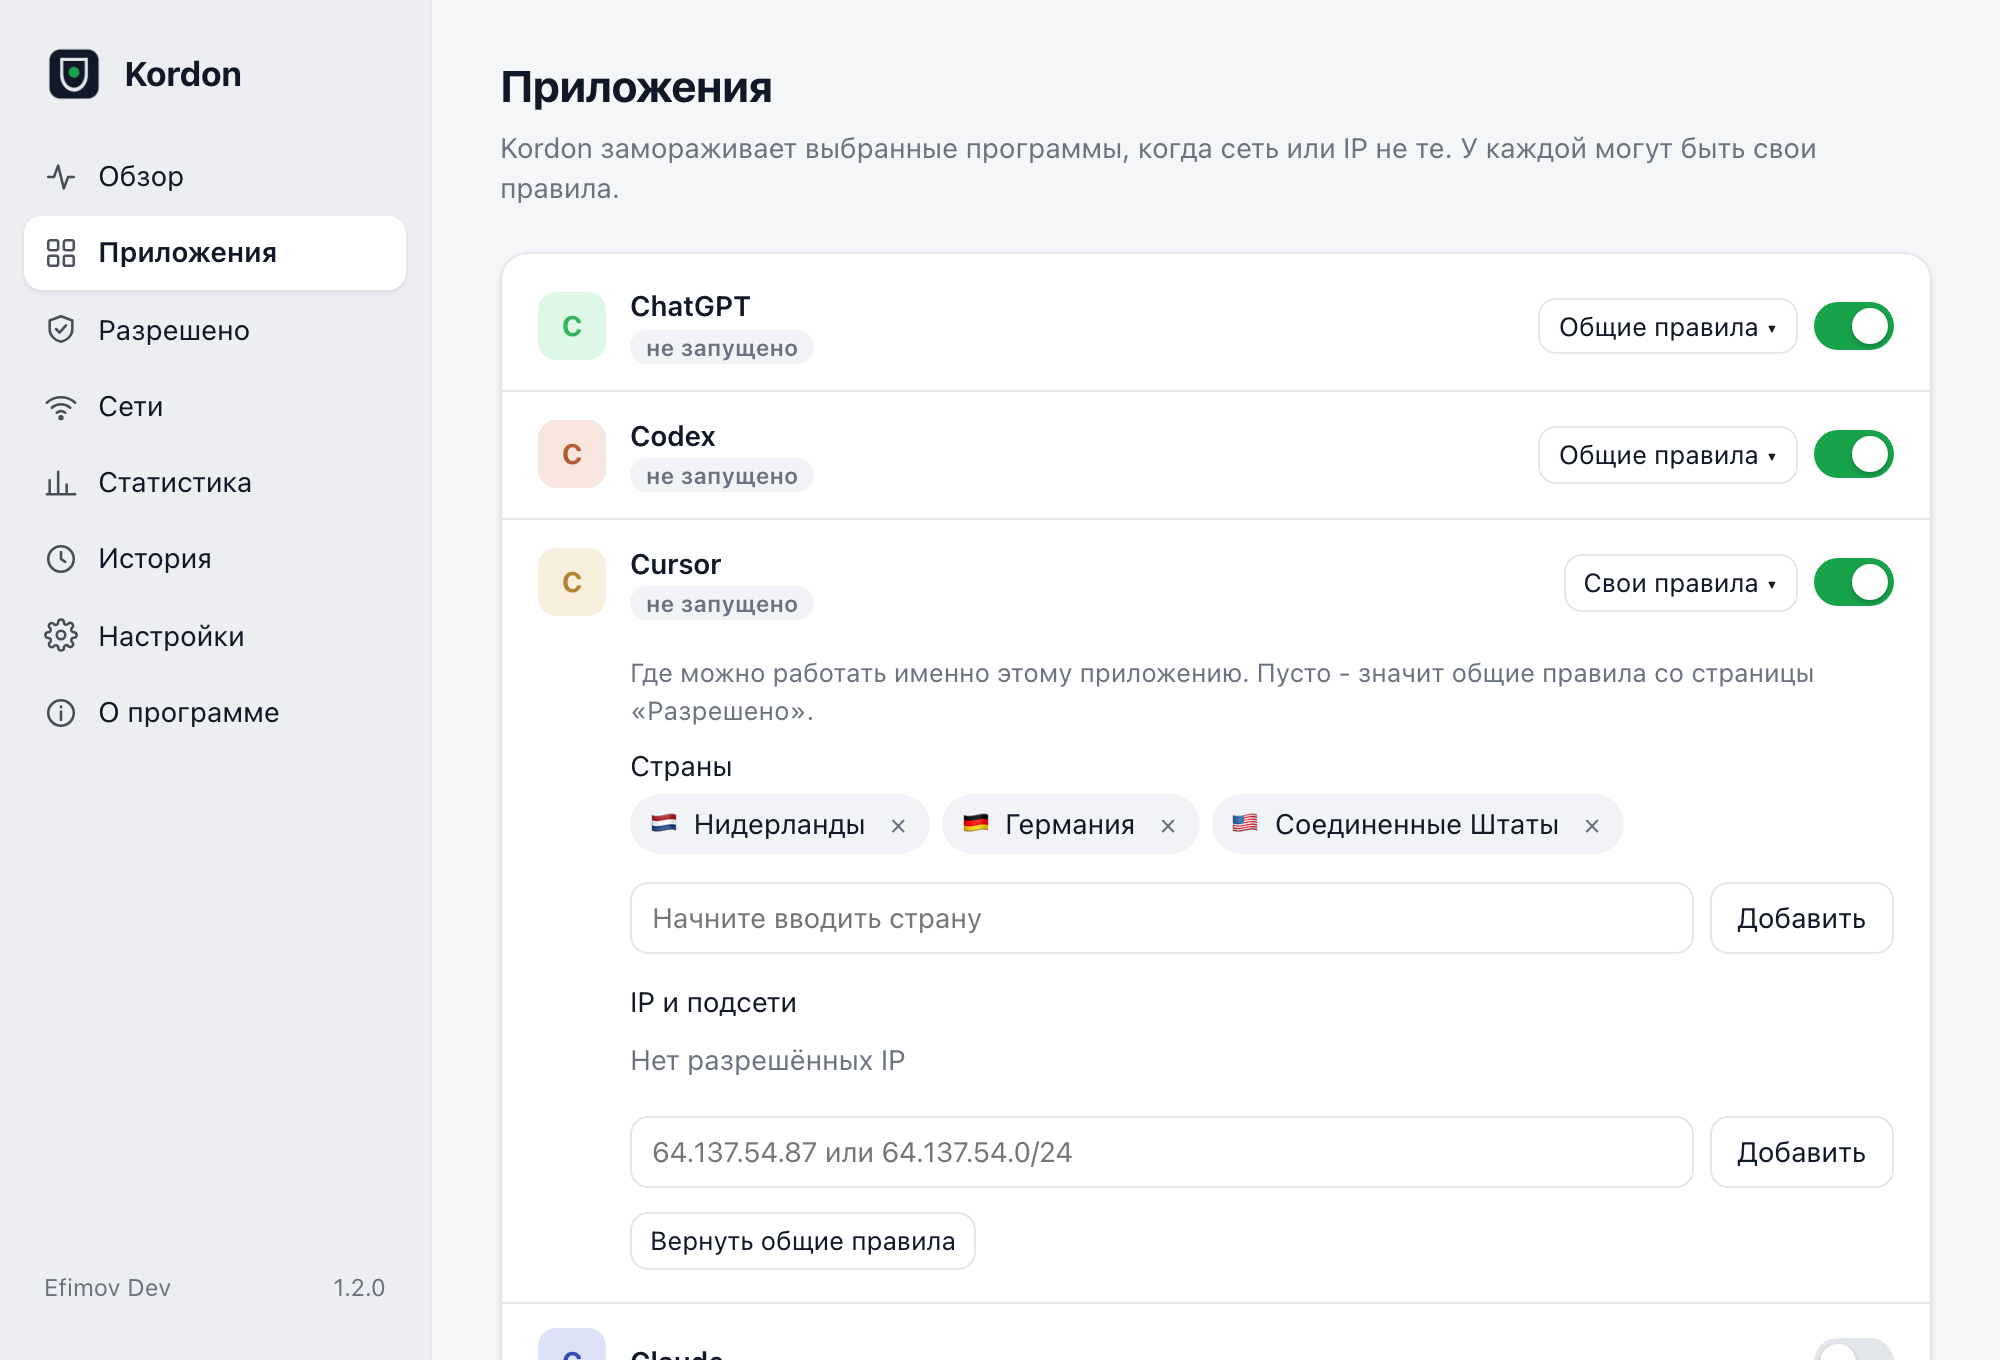
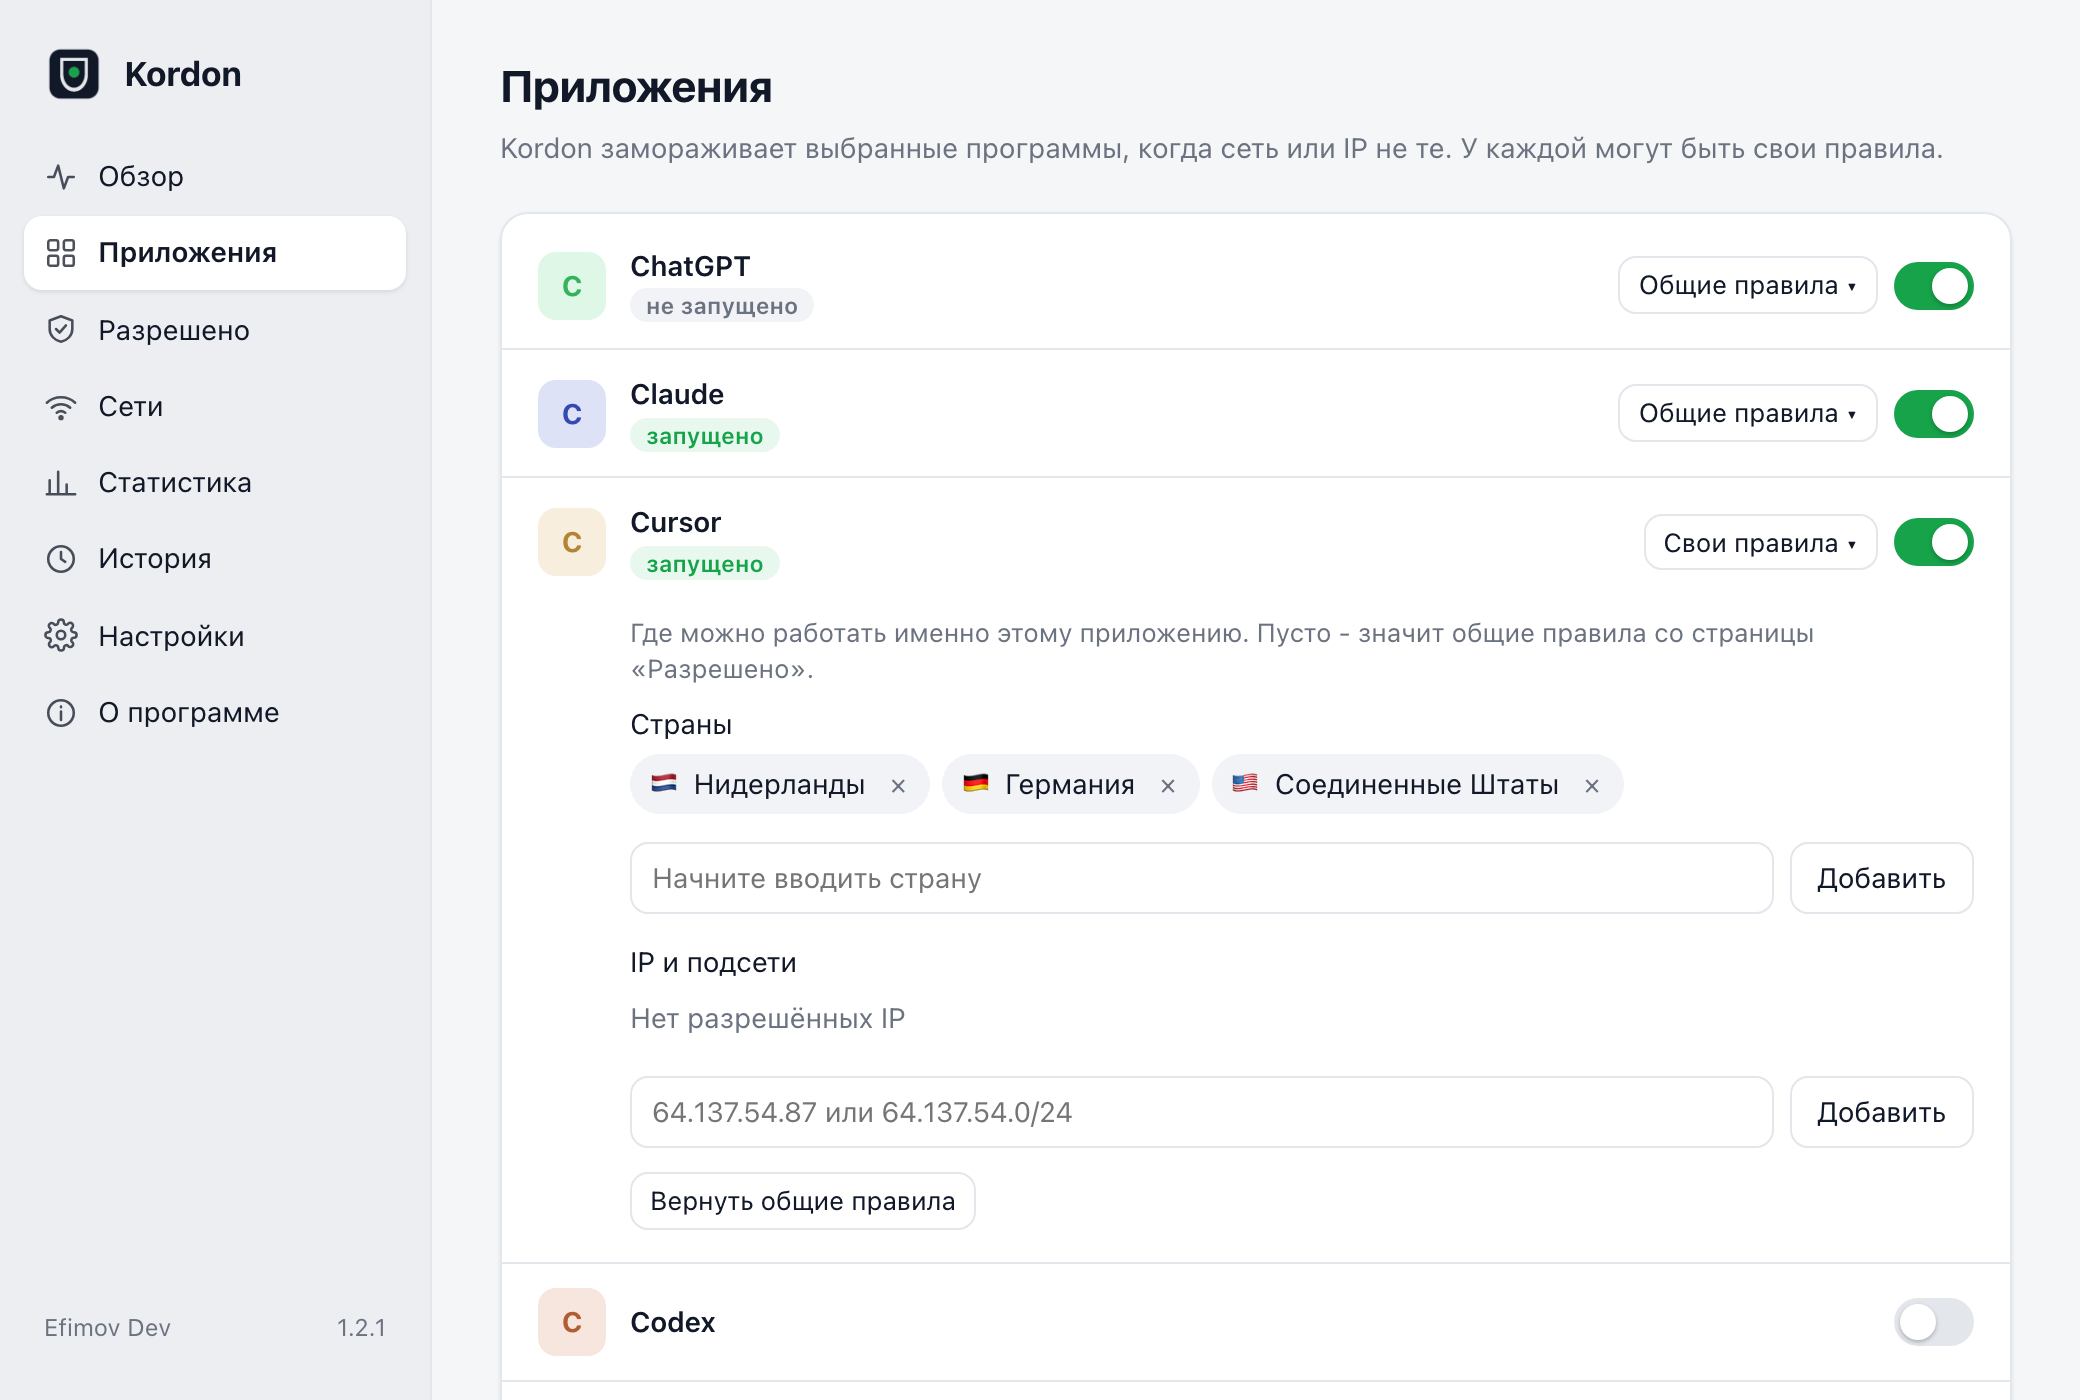
README: cover and screenshot gallery; panel: short hero title, per-app states, honest DNS label

diff --git a/internal/ui/panel/app.js b/internal/ui/panel/app.js
@@ -15,7 +15,9 @@ const L = {
     lead_history: "Последние события",
     lead_settings: "Изменения сохраняются сразу",
     ip: "Внешний IP", ipv6: "IPv6", dns: "DNS", network: "Сеть", none: "нет", offline: "нет интернета", checking: "проверяю…",
-    ipv6_none: "IPv6 нет или он выключен", dns_ok: "идёт через VPN", dns_leak: "идёт мимо VPN", dns_unknown: "не удалось определить",
+    ipv6_none: "IPv6 нет или он выключен", dns_ok: "та же страна, что у IP", dns_leak: "идёт мимо VPN",
+    h_ok: "Защита включена", h_frozen: "Приложения заморожены", h_blocked: "Приложения закрыты", h_starting: "Проверяю IP…", close_in: "закрою через",
+    no_apps: "Защищаемые приложения не запущены", dns_unknown: "не удалось определить",
     trusted_net: "Доверенная сеть", usual_net: "Обычная сеть", unknown_net: "Роутер не виден",
     trust: "Доверять этой сети", allow_ip: "Разрешить этот IP", allow_country: "Разрешить страну", check: "Проверить",
     pause: "Пауза", pause15: "15 минут", pause60: "1 час", pauseF: "До перезапуска", unpause: "Снять паузу",
@@ -54,7 +56,9 @@ const L = {
     lead_history: "Recent events",
     lead_settings: "Changes are saved right away",
     ip: "Public IP", ipv6: "IPv6", dns: "DNS", network: "Network", none: "none", offline: "no internet", checking: "checking…",
-    ipv6_none: "No IPv6, or it's off", dns_ok: "goes through the VPN", dns_leak: "bypasses the VPN", dns_unknown: "couldn't tell",
+    ipv6_none: "No IPv6, or it's off", dns_ok: "same country as the IP", dns_leak: "bypasses the VPN",
+    h_ok: "Protection is on", h_frozen: "Apps are frozen", h_blocked: "Apps are closed", h_starting: "Checking IP…", close_in: "closing in",
+    no_apps: "No protected apps are running", dns_unknown: "couldn't tell",
     trusted_net: "Trusted network", usual_net: "Regular network", unknown_net: "Router not visible",
     trust: "Trust this network", allow_ip: "Allow this IP", allow_country: "Allow country", check: "Check",
     pause: "Pause", pause15: "15 minutes", pause60: "1 hour", pauseF: "Until restart", unpause: "Resume",
@@ -157,10 +161,22 @@ function heroActions() {
   return a.join("");
 }
 
-function heroSub() {
-  const run = S.apps.filter((a) => a.running).map((a) => esc(a.name));
+function heroTitle() {
   if (S.paused) return S.pausedUntil === "forever" ? t("paused_forever") : `${t("paused_until")} ${esc(S.pausedUntil)}`;
-  return run.length ? `${run.join(", ")} · ${S.status === "frozen" ? t("frozen") : S.status === "blocked" ? t("blocked") : t("running")}` : "";
+  return t("h_" + S.status);
+}
+
+// The reason and countdown, then every running app with its own state:
+// apps with their own rules can be fine while the rest are frozen.
+function heroSub() {
+  const lines = [];
+  if (!S.paused && (S.status === "frozen" || S.status === "blocked") && S.reasonText) {
+    lines.push(esc(S.reasonText) + (S.status === "frozen" && S.reason !== "net" ? ` · ${t("close_in")} ${S.graceLeft} ${t("sec")}` : ""));
+  }
+  const run = S.apps.filter((a) => a.running);
+  if (!run.length) lines.push(t("no_apps"));
+  else lines.push(run.map((a) => `${esc(a.name)} - ${a.status === "frozen" ? t("frozen") : a.status === "blocked" ? t("blocked") : t("ok")}`).join(" · "));
+  return lines.join("<br>");
 }
 
 function overview() {
@@ -179,7 +195,7 @@ function overview() {
   return `${upd}
   <div class="card hero ${S.status}">
     <div class="orb">${svg(icon)}</div>
-    <div><div class="title">${esc(S.statusText)}</div><div class="sub">${heroSub()}</div></div>
+    <div class="hero-text"><div class="title">${heroTitle()}</div><div class="sub">${heroSub()}</div></div>
     <div class="actions">${heroActions()}</div>${bar}
   </div>
   <div class="grid">

diff --git a/internal/ui/panel/app.css b/internal/ui/panel/app.css
@@ -99,7 +99,8 @@ h2 { font-size: 13px; text-transform: uppercase; letter-spacing: .06em; color: v
 .paused .orb { background: var(--gray); }
 .hero .title { font-size: 19px; font-weight: 700; letter-spacing: -.01em; }
 .hero .sub { color: var(--muted); margin-top: 2px; }
-.hero .actions { margin-left: auto; display: flex; gap: 8px; flex-wrap: wrap; justify-content: flex-end; }
+.hero .hero-text { flex: 1; min-width: 0; }
+.hero .actions { display: flex; gap: 8px; flex-wrap: wrap; justify-content: flex-end; max-width: 52%; }
 .bar { position: absolute; left: 0; bottom: 0; height: 4px; background: var(--warn); transition: width 1s linear; }
 
 .grid { display: grid; grid-template-columns: repeat(2, 1fr); gap: 12px; margin-top: 12px; }

diff --git a/internal/ui/server.go b/internal/ui/server.go
@@ -241,7 +241,7 @@ func (s *Server) state(w http.ResponseWriter, _ *http.Request) {
 	}
 	writeJSON(w, map[string]any{
 		"lang": Lang, "goos": runtime.GOOS, "version": s.Version,
-		"status": panelStatus(snap), "statusText": StatusLine(snap), "reason": reasonKey(snap.Reason),
+		"status": panelStatus(snap), "statusText": StatusLine(snap), "reason": reasonKey(snap.Reason), "reasonText": reasonText(snap.Reason),
 		"graceLeft": int(snap.GraceLeft.Seconds()), "paused": snap.Paused(), "pausedUntil": pausedUntil,
 		"ip": snap.IP, "country": countryOf(snap.Country), "ip6": snap.IP6, "country6": countryOf(snap.Country6),
 		"others": snap.Others, "offline": snap.Offline, "allowedNow": snap.AllowedNow,

diff --git a/README.md b/README.md
@@ -1,12 +1,8 @@
 <p align="center">
-  <img src="docs/img/icon.png" width="128" alt="Kordon">
+  <img src="docs/img/hero.png" alt="Kordon - kill switch для приложений: VPN отвалился - программы замёрзли, вернулся - работают дальше">
 </p>
 
-<h1 align="center">Kordon</h1>
-
-<p align="center">
-  <b>Kill switch для приложений.</b> Отвалился VPN, сменился IP или пропал интернет - Kordon за долю секунды замораживает нужные программы. Вернулся правильный IP - они продолжают работу как ни в чём не бывало.
-</p>
+<h3 align="center">Kill switch для приложений. Отвалился VPN, сменился IP или пропал интернет - Kordon за долю секунды замораживает нужные программы. Вернулся правильный IP - они продолжают работу как ни в чём не бывало.</h3>
 
 <p align="center">
   <a href="https://github.com/ef1m03/kordon/releases/latest"><img src="https://img.shields.io/github/v/release/ef1m03/kordon?label=%D0%B2%D0%B5%D1%80%D1%81%D0%B8%D1%8F" alt="версия"></a>
@@ -24,12 +20,12 @@
   <a href="README.en.md">English</a>
 </p>
 
-<p align="center">
-  <picture>
-    <source media="(prefers-color-scheme: dark)" srcset="docs/img/panel-overview-dark.png">
-    <img src="docs/img/panel-overview-light.png" width="760" alt="Панель Kordon: статус защиты, внешний IP, IPv6, DNS и сеть">
-  </picture>
-</p>
+<table>
+  <tr>
+    <td width="50%"><img src="docs/img/panel-overview-light.png" alt="Обзор: защита включена"><p align="center"><b>Всё в порядке</b><br><sub>IP, IPv6, DNS, сеть и что запущено</sub></p></td>
+    <td width="50%"><img src="docs/img/panel-frozen-dark.png" alt="Обзор: приложения заморожены"><p align="center"><b>VPN отвалился</b><br><sub>приложения заморожены, идёт отсчёт, разрешить IP - одной кнопкой</sub></p></td>
+  </tr>
+</table>
 
 ## Зачем
 
@@ -155,7 +151,22 @@ curl -fsSL https://raw.githubusercontent.com/ef1m03/kordon/main/scripts/install.
 
 Открывается из меню: **«Открыть панель Kordon…»**. На Mac это обычное окно приложения, на Windows - отдельное окно Edge без адресной строки (Edge есть в каждой Windows), на Linux - вкладка браузера.
 
-<p align="center"><img src="docs/img/panel-apps-light.png" width="760" alt="Панель Kordon: приложения и свои правила для Cursor"></p>
+<table>
+  <tr>
+    <td width="50%"><img src="docs/img/panel-apps-light.png" alt="Приложения и свои правила"><p align="center"><b>Приложения</b><br><sub>переключатели и свои правила: Cursor можно в NL, DE и US</sub></p></td>
+    <td width="50%"><img src="docs/img/panel-networks-dark.png" alt="Доверенные сети"><p align="center"><b>Сети</b><br><sub>дома и в офисе - без VPN, в остальных сетях защита</sub></p></td>
+  </tr>
+  <tr>
+    <td width="50%"><img src="docs/img/panel-stats-light.png" alt="Статистика"><p align="center"><b>Статистика</b><br><sub>сколько раз VPN вернулся вовремя и сколько раз Kordon закрыл приложения</sub></p></td>
+    <td width="50%"><img src="docs/img/panel-history-dark.png" alt="История"><p align="center"><b>История</b><br><sub>смены сети и IP, заморозки, закрытия</sub></p></td>
+  </tr>
+  <tr>
+    <td width="50%"><img src="docs/img/panel-settings-light.png" alt="Настройки"><p align="center"><b>Настройки</b><br><sub>всё из config.yaml - переключателями</sub></p></td>
+    <td width="50%"><img src="docs/img/menu-mac.png" alt="Меню в строке меню macOS"><p align="center"><b>Строка меню</b><br><sub>флаг и IP всегда на виду, быстрые действия</sub></p></td>
+  </tr>
+</table>
+
+<sub>На скриншотах демонстрационные данные. Адрес роутера скрыт.</sub>
 
 - **Обзор** - статус, внешний IP, IPv6, DNS, текущая сеть и кнопки «Разрешить этот IP», «Пауза», «Проверить».
 - **Приложения** - переключатели для готовых наборов, свои приложения и свои правила для каждого.
@@ -163,8 +174,6 @@ curl -fsSL https://raw.githubusercontent.com/ef1m03/kordon/main/scripts/install.
 - **Сети** - доверенные сети: «Доверять этой сети», переименовать, удалить.
 - **Статистика** и **История** - что происходило.
 - **Настройки** - всё из `config.yaml`, переключателями.
-
-<p align="center"><img src="docs/img/panel-settings-dark.png" width="760" alt="Панель Kordon: настройки"></p>
 
 Панель - это страница, которую отдаёт сам Kordon только на `127.0.0.1`. Открыть её можно только из меню: каждый запуск Kordon придумывает новый секретный ключ, без него сервер не отвечает. Так до настроек не дотянется ни сайт в браузере, ни другой пользователь компьютера.
 

diff --git a/CHANGELOG.md b/CHANGELOG.md
@@ -2,6 +2,12 @@
 
 Здесь записано, что меняется в каждой версии. Раздел версии автоматически попадает в описание релиза на GitHub.
 
+## 1.2.2 - 03.11.2026
+
+- Панель: когда приложения заморожены, заголовок короткий («Приложения заморожены»), а причина и отсчёт - строкой ниже.
+- Панель: у каждого запущенного приложения свой статус - с правилами под приложение одно может работать, пока другое заморожено.
+- Панель: подпись DNS без VPN теперь честная - «та же страна, что у IP» вместо «идёт через VPN».
+
 ## 1.2.1 - 03.11.2026
 
 - **Исправлено: после обновления из меню на Mac Kordon мог не запуститься снова.** Старая версия закрывалась, а новая не стартовала: macOS считала, что Kordon ещё работает. Теперь новая версия запускается напрямую и дожидается, пока старая закроется.

diff --git a/README.en.md b/README.en.md
@@ -1,10 +1,6 @@
-<p align="center"><img src="docs/img/icon.png" width="128" alt="Kordon"></p>
+<p align="center"><img src="docs/img/hero.png" alt="Kordon - a kill switch for apps"></p>
 
-<h1 align="center">Kordon</h1>
-
-<p align="center">
-  <b>A kill switch for apps.</b> Your VPN drops, your IP changes or the internet goes away - Kordon freezes the apps you chose within a fraction of a second. The right IP is back - they carry on as if nothing happened.
-</p>
+<h3 align="center">A kill switch for apps. Your VPN drops, your IP changes or the internet goes away - Kordon freezes the apps you chose within a fraction of a second. The right IP is back - they carry on as if nothing happened.</h3>
 
 <p align="center">
   <a href="https://github.com/ef1m03/kordon/releases/latest"><img src="https://img.shields.io/github/v/release/ef1m03/kordon" alt="release"></a>
